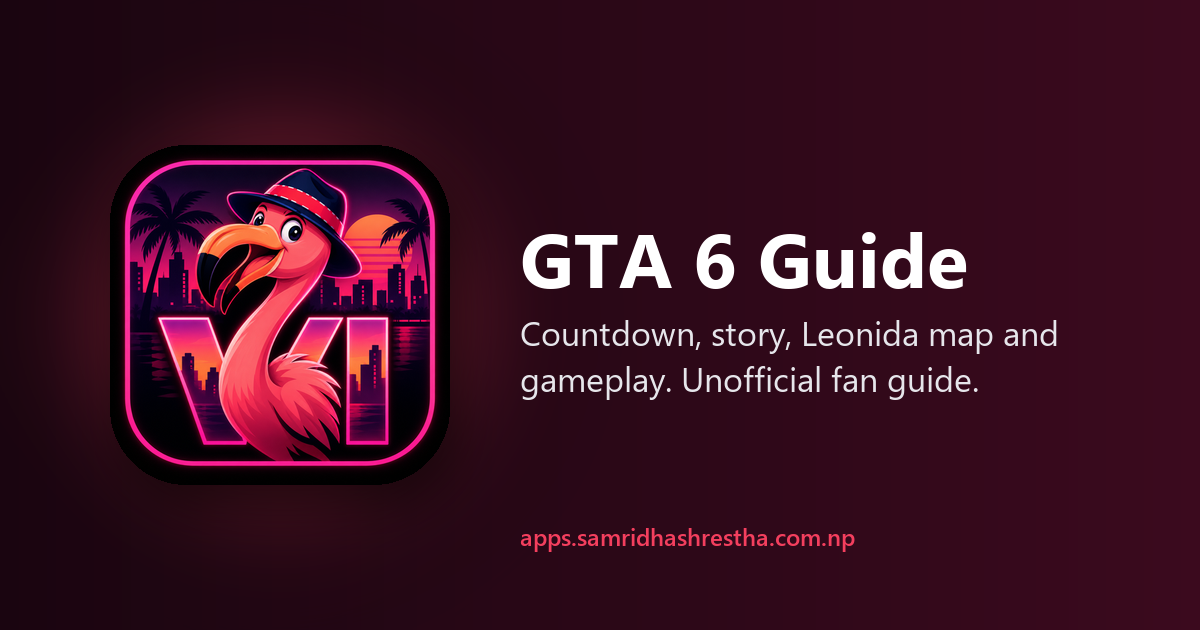
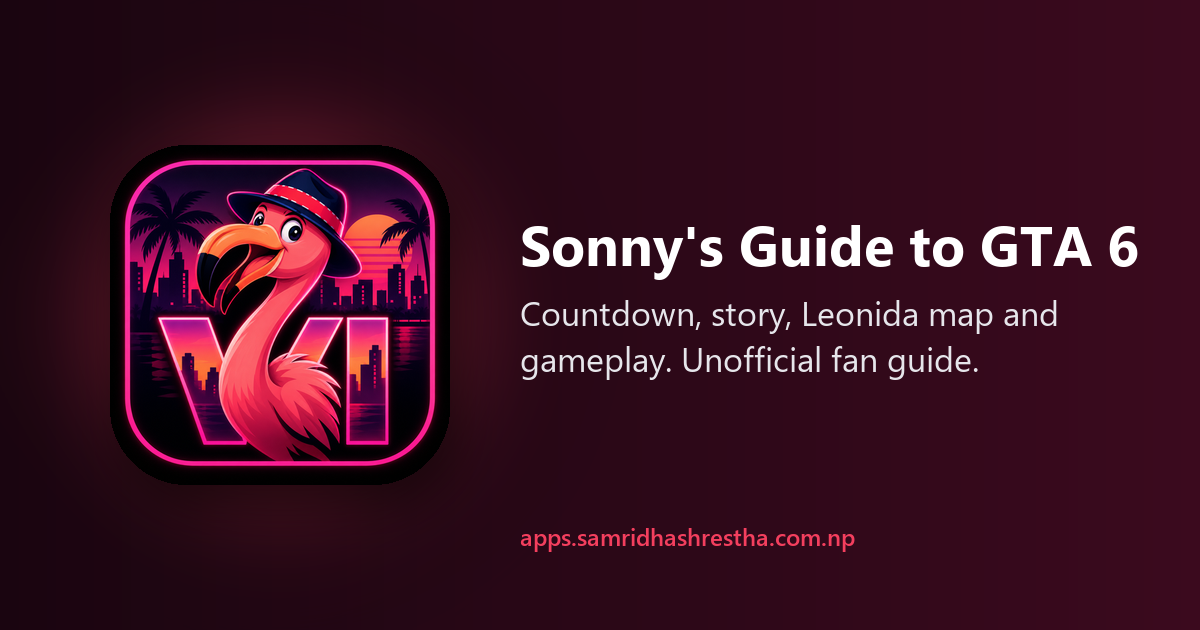
Rename GTA 6 Guide to Sonny's Guide to GTA 6

Changed region(s): [[0.4317, 0.3619, 0.9558, 0.6333]]

diff --git a/privacypolicy_gta6guide/index.html b/privacypolicy_gta6guide/index.html
@@ -3,8 +3,8 @@
 <head>
 <meta charset="utf-8">
 <meta name="viewport" content="width=device-width,initial-scale=1">
-<title>GTA 6 Guide Privacy Policy</title>
-<meta name="description" content="Privacy policy for GTA 6 Guide: Tips, Maps &amp; VI on Android.">
+<title>Sonny's Guide to GTA 6 Privacy Policy</title>
+<meta name="description" content="Privacy policy for Sonny's Guide to GTA 6: Tips, Maps &amp; VI on Android.">
 <link rel="canonical" href="https://apps.samridhashrestha.com.np/privacypolicy_gta6guide/">
 <link rel="icon" href="../gta6-icon.png">
 <style>
@@ -67,32 +67,32 @@ footer{margin-top:32px;padding-top:16px;border-top:1px solid var(--border);font-
 <meta property="og:image:width" content="1200">
 <meta property="og:image:height" content="630">
 <meta name="twitter:card" content="summary_large_image">
-<meta name="twitter:title" content="GTA 6 Guide Privacy Policy">
-<meta name="twitter:description" content="How GTA 6 Guide handles information, including Google AdMob advertising. No account required.">
+<meta name="twitter:title" content="Sonny's Guide to GTA 6 Privacy Policy">
+<meta name="twitter:description" content="How Sonny's Guide to GTA 6 handles information, including Google AdMob advertising. No account required.">
 <meta property="og:type" content="website">
-<meta property="og:title" content="GTA 6 Guide Privacy Policy">
-<meta property="og:description" content="How GTA 6 Guide handles information, including Google AdMob advertising. No account required.">
+<meta property="og:title" content="Sonny's Guide to GTA 6 Privacy Policy">
+<meta property="og:description" content="How Sonny's Guide to GTA 6 handles information, including Google AdMob advertising. No account required.">
 </head>
 <body>
 <div class="hero"><div class="wrap">
-<header><img src="../gta6-icon.png" alt="GTA 6 Guide icon"><div><div class="kicker">GTA 6 Guide · Tips, Maps &amp; VI</div><h1>Privacy Policy</h1></div></header>
+<header><img src="../gta6-icon.png" alt="Sonny's Guide to GTA 6 icon"><div><div class="kicker">Sonny's Guide to GTA 6 · Tips, Maps &amp; VI</div><h1>Privacy Policy</h1></div></header>
 <p class="meta">Last updated: 8 September 2026 · App package: com.samridha.gta6</p>
-<p class="intro">This Privacy Policy explains how GTA VI Guide handles information when you use the app, including information processed by third-party services such as Google AdMob for advertising.</p>
+<p class="intro">This Privacy Policy explains how Sonny's Guide to GTA 6 handles information when you use the app, including information processed by third-party services such as Google AdMob for advertising.</p>
 <div class="pk-facts"><div><small>Accounts</small><b>None</b></div><div><small>Account database</small><b>None</b></div><div><small>Ads</small><b>Google AdMob</b></div><div><small>Data sold</small><b>Never</b></div></div>
 <div class="pk-map" style="--pk-n:3"><h2>Where your data goes</h2><p>Pick something the app touches. Everything here comes from the policy below.</p><div class="pk-pick"><button type="button" aria-pressed="false">Settings &amp; bookmarks</button><button type="button" aria-pressed="false">Ad data</button><button type="button" aria-pressed="false">Diagnostics</button><button type="button" aria-pressed="false">Your name or email</button></div><ol class="pk-dest"><li data-d="phone"><b>Your phone</b><span>Preferences and settings</span></li><li data-d="ads"><b>Google AdMob</b><span>Ads, measurement, fraud prevention</span></li><li data-d="us" class=never><b>Us</b><span>No account database</span></li></ol><p class="pk-say" aria-live="polite"></p><script type="application/json">[["Settings & bookmarks", ["phone"], "Preferences and settings are stored locally on your device to remember your choices. They are not used to identify you."], ["Ad data", ["ads"], "Google's Mobile Ads SDK may process your IP address (for general location), advertising and device identifiers, and app and ad interactions. Encrypted in transit, according to Google."], ["Diagnostics", ["ads"], "The ads SDK may process diagnostic and performance information such as launch time, hang rate and energy usage."], ["Your name or email", [], "Not collected. The app needs no account and does not intentionally collect your name, address, phone number or passwords."]]</script></div>
 
 <div class="sunset"></div>
-<nav class="toc" aria-label="Sections"><a href="#s1">1. About GTA VI Guide</a><a href="#s2">2. Information We Collect</a><a href="#s3">3. Advertising</a><a href="#s4">4. Third-Party Services</a><a href="#s5">5. Data Sharing</a><a href="#s6">6. International Processing</a><a href="#s7">7. EEA, UK, and Switzerland</a><a href="#s8">8. United States Privacy Choices</a><a href="#s9">9. Children's Privacy</a><a href="#s10">10. Data Retention and Deletion</a><a href="#s11">11. Security</a><a href="#s12">12. Your Choices</a><a href="#s13">13. Changes</a><a href="#s14">14. Contact</a><a href="#s15">15. Third-Party Information</a></nav>
+<nav class="toc" aria-label="Sections"><a href="#s1">1. About Sonny's Guide to GTA 6</a><a href="#s2">2. Information We Collect</a><a href="#s3">3. Advertising</a><a href="#s4">4. Third-Party Services</a><a href="#s5">5. Data Sharing</a><a href="#s6">6. International Processing</a><a href="#s7">7. EEA, UK, and Switzerland</a><a href="#s8">8. United States Privacy Choices</a><a href="#s9">9. Children's Privacy</a><a href="#s10">10. Data Retention and Deletion</a><a href="#s11">11. Security</a><a href="#s12">12. Your Choices</a><a href="#s13">13. Changes</a><a href="#s14">14. Contact</a><a href="#s15">15. Third-Party Information</a></nav>
 </div></div>
 <main class="wrap">
 
-<section id="s1"><h2>1. About GTA VI Guide</h2>
-<p>GTA VI Guide is a fan-made informational application providing guides, information, and other content related to Grand Theft Auto VI. GTA VI Guide is not affiliated with, endorsed by, or sponsored by Rockstar Games or Take-Two Interactive.</p></section>
+<section id="s1"><h2>1. About Sonny's Guide to GTA 6</h2>
+<p>Sonny's Guide to GTA 6 is a fan-made informational application providing guides, information, and other content related to Grand Theft Auto VI. Sonny's Guide to GTA 6 is not affiliated with, endorsed by, or sponsored by Rockstar Games or Take-Two Interactive.</p></section>
 
 <section id="s2"><h2>2. Information We Collect</h2>
-<p>GTA VI Guide does not require an account and does not intentionally collect your name, postal address, phone number, passwords, or other directly identifying information through the app.</p>
+<p>Sonny's Guide to GTA 6 does not require an account and does not intentionally collect your name, postal address, phone number, passwords, or other directly identifying information through the app.</p>
 <h3>Information processed by advertising services</h3>
-<p>GTA VI Guide uses Google AdMob to display advertisements. Google Mobile Ads SDK may automatically process information such as:</p>
+<p>Sonny's Guide to GTA 6 uses Google AdMob to display advertisements. Google Mobile Ads SDK may automatically process information such as:</p>
 <ul>
 <li>IP address, which may be used to estimate general location;</li>
 <li>advertising identifiers and other device or app identifiers, where permitted;</li>
@@ -111,7 +111,7 @@ footer{margin-top:32px;padding-top:16px;border-top:1px solid var(--border);font-
 <section id="s4"><h2>4. Third-Party Services</h2>
 <p>We use third-party services for advertising and, where applicable, app infrastructure, diagnostics, analytics, or other functionality. These providers may process information according to their own policies.</p>
 <h3>Google AdMob</h3>
-<p>GTA VI Guide uses Google AdMob. Google's advertising services may collect and process the information described above for advertising, analytics, measurement, and fraud prevention.</p>
+<p>Sonny's Guide to GTA 6 uses Google AdMob. Google's advertising services may collect and process the information described above for advertising, analytics, measurement, and fraud prevention.</p>
 <p><a href="https://policies.google.com/technologies/partner-sites">How Google uses information from sites or apps that use our services</a></p>
 <p><a href="https://policies.google.com/privacy">Google Privacy Policy</a></p></section>
 
@@ -128,10 +128,10 @@ footer{margin-top:32px;padding-top:16px;border-top:1px solid var(--border);font-
 <p>Depending on your state and applicable law, you may have privacy rights concerning collection, use, or sharing of personal information. Google provides privacy and advertising controls that may affect how advertising information is used. Where applicable, AdMob may support privacy signals and restricted data processing mechanisms.</p></section>
 
 <section id="s9"><h2>9. Children's Privacy</h2>
-<p>GTA VI Guide is not intended to knowingly collect personal information from children. The app does not require account registration. If the app is subject to children's privacy laws or Google's child-directed treatment requirements, advertising and data processing may be restricted accordingly.</p></section>
+<p>Sonny's Guide to GTA 6 is not intended to knowingly collect personal information from children. The app does not require account registration. If the app is subject to children's privacy laws or Google's child-directed treatment requirements, advertising and data processing may be restricted accordingly.</p></section>
 
 <section id="s10"><h2>10. Data Retention and Deletion</h2>
-<p>Because GTA VI Guide does not require user accounts, we do not maintain an account database containing your personal profile. Information processed by third parties such as Google may be retained according to their policies, contractual requirements, legitimate purposes, and applicable law. Requests concerning information processed directly by Google may need to be made to Google through its privacy controls.</p></section>
+<p>Because Sonny's Guide to GTA 6 does not require user accounts, we do not maintain an account database containing your personal profile. Information processed by third parties such as Google may be retained according to their policies, contractual requirements, legitimate purposes, and applicable law. Requests concerning information processed directly by Google may need to be made to Google through its privacy controls.</p></section>
 
 <section id="s11"><h2>11. Security</h2>
 <p>We take reasonable measures to protect information under our control. Third-party services may apply their own security measures. Google states that information collected by its Mobile Ads SDK is encrypted in transit. No electronic transmission or storage method is completely secure.</p></section>
@@ -148,7 +148,7 @@ footer{margin-top:32px;padding-top:16px;border-top:1px solid var(--border);font-
 <section id="s15"><h2>15. Third-Party Information</h2>
 <p>Google AdMob is a third-party service. Google's data practices may change as its products and SDKs are updated. We will update this policy when the app's advertising or data-processing configuration materially changes.</p></section>
 
-<footer><a href="../gta6guide/">About GTA 6 Guide</a> · <a href="../">More apps by Samridha Shrestha</a></footer>
+<footer><a href="../gta6guide/">About Sonny's Guide to GTA 6</a> · <a href="../">More apps by Samridha Shrestha</a></footer>
 </main>
 <script>
 (function(){

diff --git a/gta6guide/index.html b/gta6guide/index.html
@@ -3,7 +3,7 @@
 <head>
 <meta charset="utf-8">
 <meta name="viewport" content="width=device-width, initial-scale=1">
-<title>GTA 6 Guide: Tips, Maps & VI — Android App</title>
+<title>Sonny's Guide to GTA 6: Tips, Maps & VI — Android App</title>
 <meta name="description" content="Complete GTA VI reference — release date, story, Leonida map, gameplay, characters & more. Offline-first Android companion app.">
 <link rel="canonical" href="https://apps.samridhashrestha.com.np/gta6guide/">
 <link rel="icon" href="../gta6-icon.png">
@@ -98,21 +98,21 @@ h1{background-image:linear-gradient(90deg,#fff,var(--accent) 30%,var(--purple) 5
 <meta property="og:image:width" content="1200">
 <meta property="og:image:height" content="630">
 <meta name="twitter:card" content="summary_large_image">
-<meta name="twitter:title" content="GTA 6 Guide: Tips, Maps &amp; VI — Android App">
+<meta name="twitter:title" content="Sonny's Guide to GTA 6: Tips, Maps &amp; VI — Android App">
 <meta name="twitter:description" content="Complete GTA VI reference — release date, story, Leonida map, gameplay, characters &amp; more. Offline-first Android companion app.">
 <meta property="og:type" content="website">
-<meta property="og:title" content="GTA 6 Guide: Tips, Maps &amp; VI — Android App">
+<meta property="og:title" content="Sonny's Guide to GTA 6: Tips, Maps &amp; VI — Android App">
 <meta property="og:description" content="Complete GTA VI reference — release date, story, Leonida map, gameplay, characters &amp; more. Offline-first Android companion app.">
-<script type="application/ld+json">{"@context": "https://schema.org", "@graph": [{"@type": "MobileApplication", "inLanguage": "en", "author": {"@type": "Person", "name": "Samridha Shrestha", "url": "https://apps.samridhashrestha.com.np/"}, "offers": {"@type": "Offer", "price": "0", "priceCurrency": "USD"}, "name": "GTA 6 Guide: Tips, Maps & VI", "operatingSystem": "Android", "applicationCategory": "ReferenceApplication", "description": "Unofficial, offline-first fan guide to GTA VI: countdown, story, Leonida map and gameplay.", "url": "https://apps.samridhashrestha.com.np/gta6guide/", "downloadUrl": "https://play.google.com/store/apps/details?id=com.samridha.gta6", "image": "https://apps.samridhashrestha.com.np/gta6-icon.png"}, {"@type": "FAQPage", "mainEntity": [{"@type": "Question", "name": "Is this an official Rockstar app?", "acceptedAnswer": {"@type": "Answer", "text": "No. GTA 6 Guide is an unofficial fan guide, not affiliated with Rockstar Games or Take-Two Interactive. Information is sourced from official Rockstar communications."}}, {"@type": "Question", "name": "Does it work offline?", "acceptedAnswer": {"@type": "Answer", "text": "Yes. Content is bundled with the app, so the guide works without a connection."}}, {"@type": "Question", "name": "Do I need an account?", "acceptedAnswer": {"@type": "Answer", "text": "No. There is no sign-up. Bookmarks and favorites are saved on your device."}}, {"@type": "Question", "name": "Is it free? What about ads and privacy?", "acceptedAnswer": {"@type": "Answer", "text": "It is free and shows ads from Google AdMob, which may collect device identifiers for personalized or non-personalized ads. The full details are in the privacy policy."}}]}]}</script>
+<script type="application/ld+json">{"@context": "https://schema.org", "@graph": [{"@type": "MobileApplication", "inLanguage": "en", "author": {"@type": "Person", "name": "Samridha Shrestha", "url": "https://apps.samridhashrestha.com.np/"}, "offers": {"@type": "Offer", "price": "0", "priceCurrency": "USD"}, "name": "Sonny's Guide to GTA 6: Tips, Maps & VI", "operatingSystem": "Android", "applicationCategory": "ReferenceApplication", "description": "Unofficial, offline-first fan guide to GTA VI: countdown, story, Leonida map and gameplay.", "url": "https://apps.samridhashrestha.com.np/gta6guide/", "downloadUrl": "https://play.google.com/store/apps/details?id=com.samridha.gta6", "image": "https://apps.samridhashrestha.com.np/gta6-icon.png"}, {"@type": "FAQPage", "mainEntity": [{"@type": "Question", "name": "Is this an official Rockstar app?", "acceptedAnswer": {"@type": "Answer", "text": "No. Sonny's Guide to GTA 6 is an unofficial fan guide, not affiliated with Rockstar Games or Take-Two Interactive. Information is sourced from official Rockstar communications."}}, {"@type": "Question", "name": "Does it work offline?", "acceptedAnswer": {"@type": "Answer", "text": "Yes. Content is bundled with the app, so the guide works without a connection."}}, {"@type": "Question", "name": "Do I need an account?", "acceptedAnswer": {"@type": "Answer", "text": "No. There is no sign-up. Bookmarks and favorites are saved on your device."}}, {"@type": "Question", "name": "Is it free? What about ads and privacy?", "acceptedAnswer": {"@type": "Answer", "text": "It is free and shows ads from Google AdMob, which may collect device identifiers for personalized or non-personalized ads. The full details are in the privacy policy."}}]}]}</script>
 </head>
 <body>
 <div class="progress" aria-hidden="true"></div>
 <div class="hero"><main class="wrap">
 <div class="hero-grid">
-<img class="icon" src="../gta6-icon.png" alt="GTA 6 Guide app icon — neon flamingo over Vice City sunset">
+<img class="icon" src="../gta6-icon.png" alt="Sonny's Guide to GTA 6 app icon — neon flamingo over Vice City sunset">
 <div style="flex:1;min-width:240px">
 <div class="badge">Android &bull; Offline-first &bull; Free</div>
-<h1>GTA 6 Guide: Tips, Maps &amp; VI</h1>
+<h1>Sonny's Guide to GTA 6: Tips, Maps &amp; VI</h1>
 <p class="sub">Countdown, story, Leonida map &amp; gameplay — sourced from official Rockstar communications.</p>
 <div class="count" id="count">
 <div class="unit"><b id="d">–</b><span>DAYS</span></div>
@@ -149,7 +149,7 @@ h1{background-image:linear-gradient(90deg,#fff,var(--accent) 30%,var(--purple) 5
 </ul>
 
 <h2>FAQ</h2>
-<details><summary>Is this an official Rockstar app?</summary><p>No. GTA 6 Guide is an unofficial fan guide, not affiliated with Rockstar Games or Take-Two Interactive. Information is sourced from official Rockstar communications.</p></details>
+<details><summary>Is this an official Rockstar app?</summary><p>No. Sonny's Guide to GTA 6 is an unofficial fan guide, not affiliated with Rockstar Games or Take-Two Interactive. Information is sourced from official Rockstar communications.</p></details>
 <details><summary>Does it work offline?</summary><p>Yes. Content is bundled with the app, so the guide works without a connection.</p></details>
 <details><summary>Do I need an account?</summary><p>No. There is no sign-up. Bookmarks and favorites are saved on your device.</p></details>
 <details><summary>Is it free? What about ads and privacy?</summary><p>It is free and shows ads from Google AdMob, which may collect device identifiers for personalized or non-personalized ads. The full details are in the <a href="../privacypolicy_gta6guide/">privacy policy</a>.</p></details>

diff --git a/index.html b/index.html
@@ -4,11 +4,11 @@
 <meta charset="utf-8">
 <meta name="viewport" content="width=device-width,initial-scale=1">
 <title>Samridha Shrestha Apps</title>
-<meta name="description" content="Android apps by Samridha Shrestha: StayT, the task-based app blocker, GTA 6 Guide, and Anime Studio, living anime watch faces for Wear OS.">
+<meta name="description" content="Android apps by Samridha Shrestha: StayT, the task-based app blocker, Sonny's Guide to GTA 6, and Anime Studio, living anime watch faces for Wear OS.">
 <link rel="canonical" href="https://apps.samridhashrestha.com.np/">
 <meta property="og:type" content="website">
 <meta property="og:title" content="Samridha Shrestha Apps">
-<meta property="og:description" content="Android apps by Samridha Shrestha. Featuring StayT, GTA 6 Guide, Anime Studio and Secret Santa.">
+<meta property="og:description" content="Android apps by Samridha Shrestha. Featuring StayT, Sonny's Guide to GTA 6, Anime Studio and Secret Santa.">
 <meta name="twitter:card" content="summary">
 <link rel="icon" href="favicon.png">
 <link rel="apple-touch-icon" href="favicon.png">
@@ -132,7 +132,7 @@ div.who.w{display:flex}
 <meta property="og:image:height" content="630">
 <meta name="twitter:card" content="summary_large_image">
 <meta name="twitter:title" content="Samridha Shrestha Apps">
-<meta name="twitter:description" content="Small Android apps that do one thing well: StayT, GTA 6 Guide, Anime Studio and Secret Santa.">
+<meta name="twitter:description" content="Small Android apps that do one thing well: StayT, Sonny's Guide to GTA 6, Anime Studio and Secret Santa.">
 <script type="application/ld+json">{"@context": "https://schema.org", "@type": "Person", "name": "Samridha Shrestha", "url": "https://apps.samridhashrestha.com.np/", "sameAs": ["https://samridhashrestha.com.np/"], "jobTitle": "Independent Android developer"}</script>
 </head>
 <body>
@@ -163,7 +163,7 @@ div.who.w{display:flex}
 <div class="grid" id="grid">
 <noscript>
 <div class="card" style="--accent:#58CC02;--t1:#16380a;--t2:#0b1a05"><div class="head"><img class="appicon" src="stayt-icon.png" alt="StayT icon"><div><h3>StayT</h3><div class="tag">Task-based app blocker</div></div></div><p><a href="stayt/">Details</a> · <a href="privacypolicy_stayt/">Privacy policy</a></p></div>
-<div class="card" style="--accent:#F43F5E;--t1:#3b0a1e;--t2:#1A0510"><div class="head"><img class="appicon" src="gta6-icon.png" alt="GTA 6 Guide icon"><div><h3>GTA 6 Guide</h3><div class="tag">Tips, Maps &amp; VI</div></div></div><p><a href="gta6guide/">Details</a> · <a href="privacypolicy_gta6guide/">Privacy policy</a></p></div>
+<div class="card" style="--accent:#F43F5E;--t1:#3b0a1e;--t2:#1A0510"><div class="head"><img class="appicon" src="gta6-icon.png" alt="Sonny's Guide to GTA 6 icon"><div><h3>Sonny's Guide to GTA 6</h3><div class="tag">Tips, Maps &amp; VI</div></div></div><p><a href="gta6guide/">Details</a> · <a href="privacypolicy_gta6guide/">Privacy policy</a></p></div>
 <div class="card" style="--accent:#E0334A;--t1:#2a0d14;--t2:#12090c"><div class="head"><img class="appicon" src="animestudio-icon.png" alt="Anime Studio icon"><div><h3>Anime Studio</h3><div class="tag">Living anime watch faces</div></div></div><p><a href="animestudio/">Details</a> · <a href="privacypolicy_animestudio/">Privacy policy</a></p></div>
 </noscript>
 </div>
@@ -185,7 +185,7 @@ div.who.w{display:flex}
 // accent = button/glow colour, onAccent = button text colour, t1/t2 = card tint.
 var APPS=[
 {name:"StayT",img:"stayt-icon.png",tagline:"Task-based app blocker",desc:"Pick a task, block the apps and sites that pull you away, and build a focus streak. Everything stays on your phone.",badges:["Android","On-device","Free"],learn:"stayt/",privacy:"privacypolicy_stayt/",play:"https://play.google.com/store/apps/details?id=com.nitridee.staytapp",accent:"#58CC02",onAccent:"#000437",t1:"#16380a",t2:"#0b1a05"},
-{name:"GTA 6 Guide",img:"gta6-icon.png",tagline:"Tips, Maps & VI",desc:"Countdown, story, Leonida map and gameplay. An offline-first companion for GTA VI, guided by Sonny the flamingo.",badges:["Android","Offline-first","Free"],learn:"gta6guide/",privacy:"privacypolicy_gta6guide/",play:"https://play.google.com/store/apps/details?id=com.samridha.gta6",accent:"#F43F5E",onAccent:"#fff",t1:"#3b0a1e",t2:"#1A0510"},
+{name:"Sonny's Guide to GTA 6",img:"gta6-icon.png",tagline:"Tips, Maps & VI",desc:"Countdown, story, Leonida map and gameplay. An offline-first companion for GTA VI, guided by Sonny the flamingo.",badges:["Android","Offline-first","Free"],learn:"gta6guide/",privacy:"privacypolicy_gta6guide/",play:"https://play.google.com/store/apps/details?id=com.samridha.gta6",accent:"#F43F5E",onAccent:"#fff",t1:"#3b0a1e",t2:"#1A0510"},
 {name:"Anime Studio",img:"animestudio-icon.png",tagline:"Living anime watch faces",desc:"Wear OS faces where the town follows the season and the hour, and your companion reacts to your day. Make one yours on your phone; it's on your wrist in seconds.",badges:["Wear OS 6","No ads","One-time unlock"],learn:"animestudio/",privacy:"privacypolicy_animestudio/",play:"https://play.google.com/store/apps/details?id=dev.animewatch.studio",accent:"#E0334A",onAccent:"#fff",t1:"#2a0d14",t2:"#12090c"},
 {name:"Secret Santa",img:"secretsanta-icon.png",tagline:"Draw names, no sign-up",desc:"Draw names, keep couples apart and send each person their match by text or WhatsApp. No email, no accounts; names stay on your phone.",badges:["Android","No sign-up","Free"],learn:"secretsanta/",privacy:"secretsanta/privacy.html",play:"https://play.google.com/store/apps/details?id=com.samridha.secretsanta",soon:true,accent:"#E0303A",onAccent:"#fff",t1:"#0c1a34",t2:"#060d1c"}
 ];
